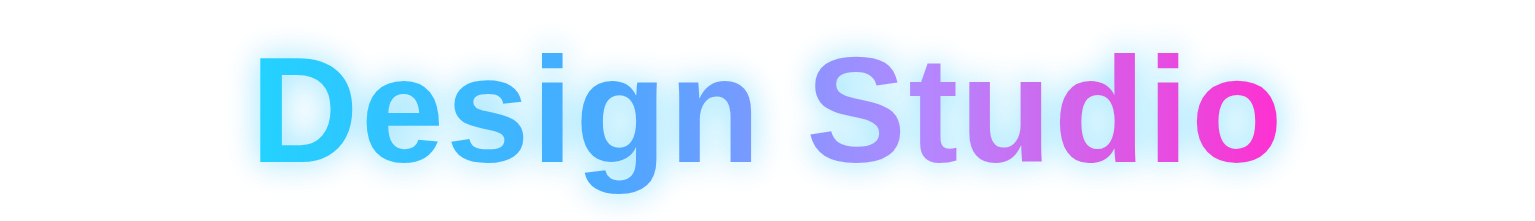
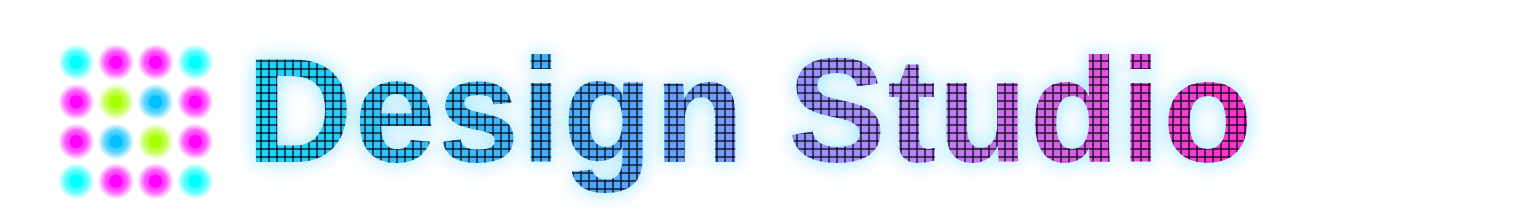
Improve the pixel-brand wordmark and retake README screenshots
The placeholder gradient-text wordmark from the initial rename is
replaced with an LED-pixel-grid rendering of "Design Studio" paired
with the existing diamond dot-grid mark, closer to the original
hex/dot-matrix aesthetic. The four README screenshots are retaken
against the renamed app so they no longer show the old "FastLED
Studio" branding in the UI chrome.

Changed region(s): [[0.0306, 0.19, 0.8573, 0.8959], [0.3368, 0.2443, 0.3674, 0.3258]]

diff --git a/README.md b/README.md
@@ -4,7 +4,7 @@ Design LED animations as a live node graph, watch them move on a virtual matrix,
 
 **Public beta · 144 nodes · 20 included audio-reactive patterns · Windows/macOS/Linux packaging · MIT core**
 
-![Design Studio for FastLED overview](docs/images/readme/fastled-studio-overview.png)
+![Design Studio for FastLED overview](docs/images/readme/design-studio-overview.png)
 
 Design Studio for FastLED is a visual authoring environment for LED strips, matrices, and tiled panels. Drag in generators, signals, palettes, effects, audio analysis, and hardware output; connect matching ports; and tune every control while the main preview and node previews run live.
 
@@ -16,7 +16,7 @@ Design Studio for FastLED is a visual authoring environment for LED strips, matr
 
 | Build and preview a patch | Browse reusable patterns |
 |---|---|
-| ![A patch driving the live LED preview](docs/images/readme/fastled-studio-patch.png) | ![Pattern Library with included audio-reactive patterns](docs/images/readme/fastled-studio-pattern-library.png) |
+| ![A patch driving the live LED preview](docs/images/readme/design-studio-patch.png) | ![Pattern Library with included audio-reactive patterns](docs/images/readme/design-studio-pattern-library.png) |
 
 ### Perform in Stage Mode
 
@@ -24,7 +24,7 @@ Press **Stage** or **F10** to turn the workspace into a focused performance view
 
 The shot below is a generated show playing a lava-coloured pattern while its analyzed audio track drives the spectrum display.
 
-![Stage Mode playing a generated show with the live spectrum analyzer](docs/images/readme/fastled-studio-stage.png)
+![Stage Mode playing a generated show with the live spectrum analyzer](docs/images/readme/design-studio-stage.png)
 
 ## Your first five minutes
 
@@ -80,7 +80,7 @@ The old **My Patterns** rack is now the **Pattern Library**:
 - Click a pattern to place it near the center of the canvas, drag it to position it, or drag it directly onto a Pattern Collection.
 - The optional local helper mirrors user patterns as shareable JSON files in its per-user `My Patterns` data folder. Included beta patterns are bundled with the application and are not written over your files.
 
-![Pattern Library shelves](docs/images/readme/fastled-studio-pattern-library.png)
+![Pattern Library shelves](docs/images/readme/design-studio-pattern-library.png)
 
 ## Install and run
 